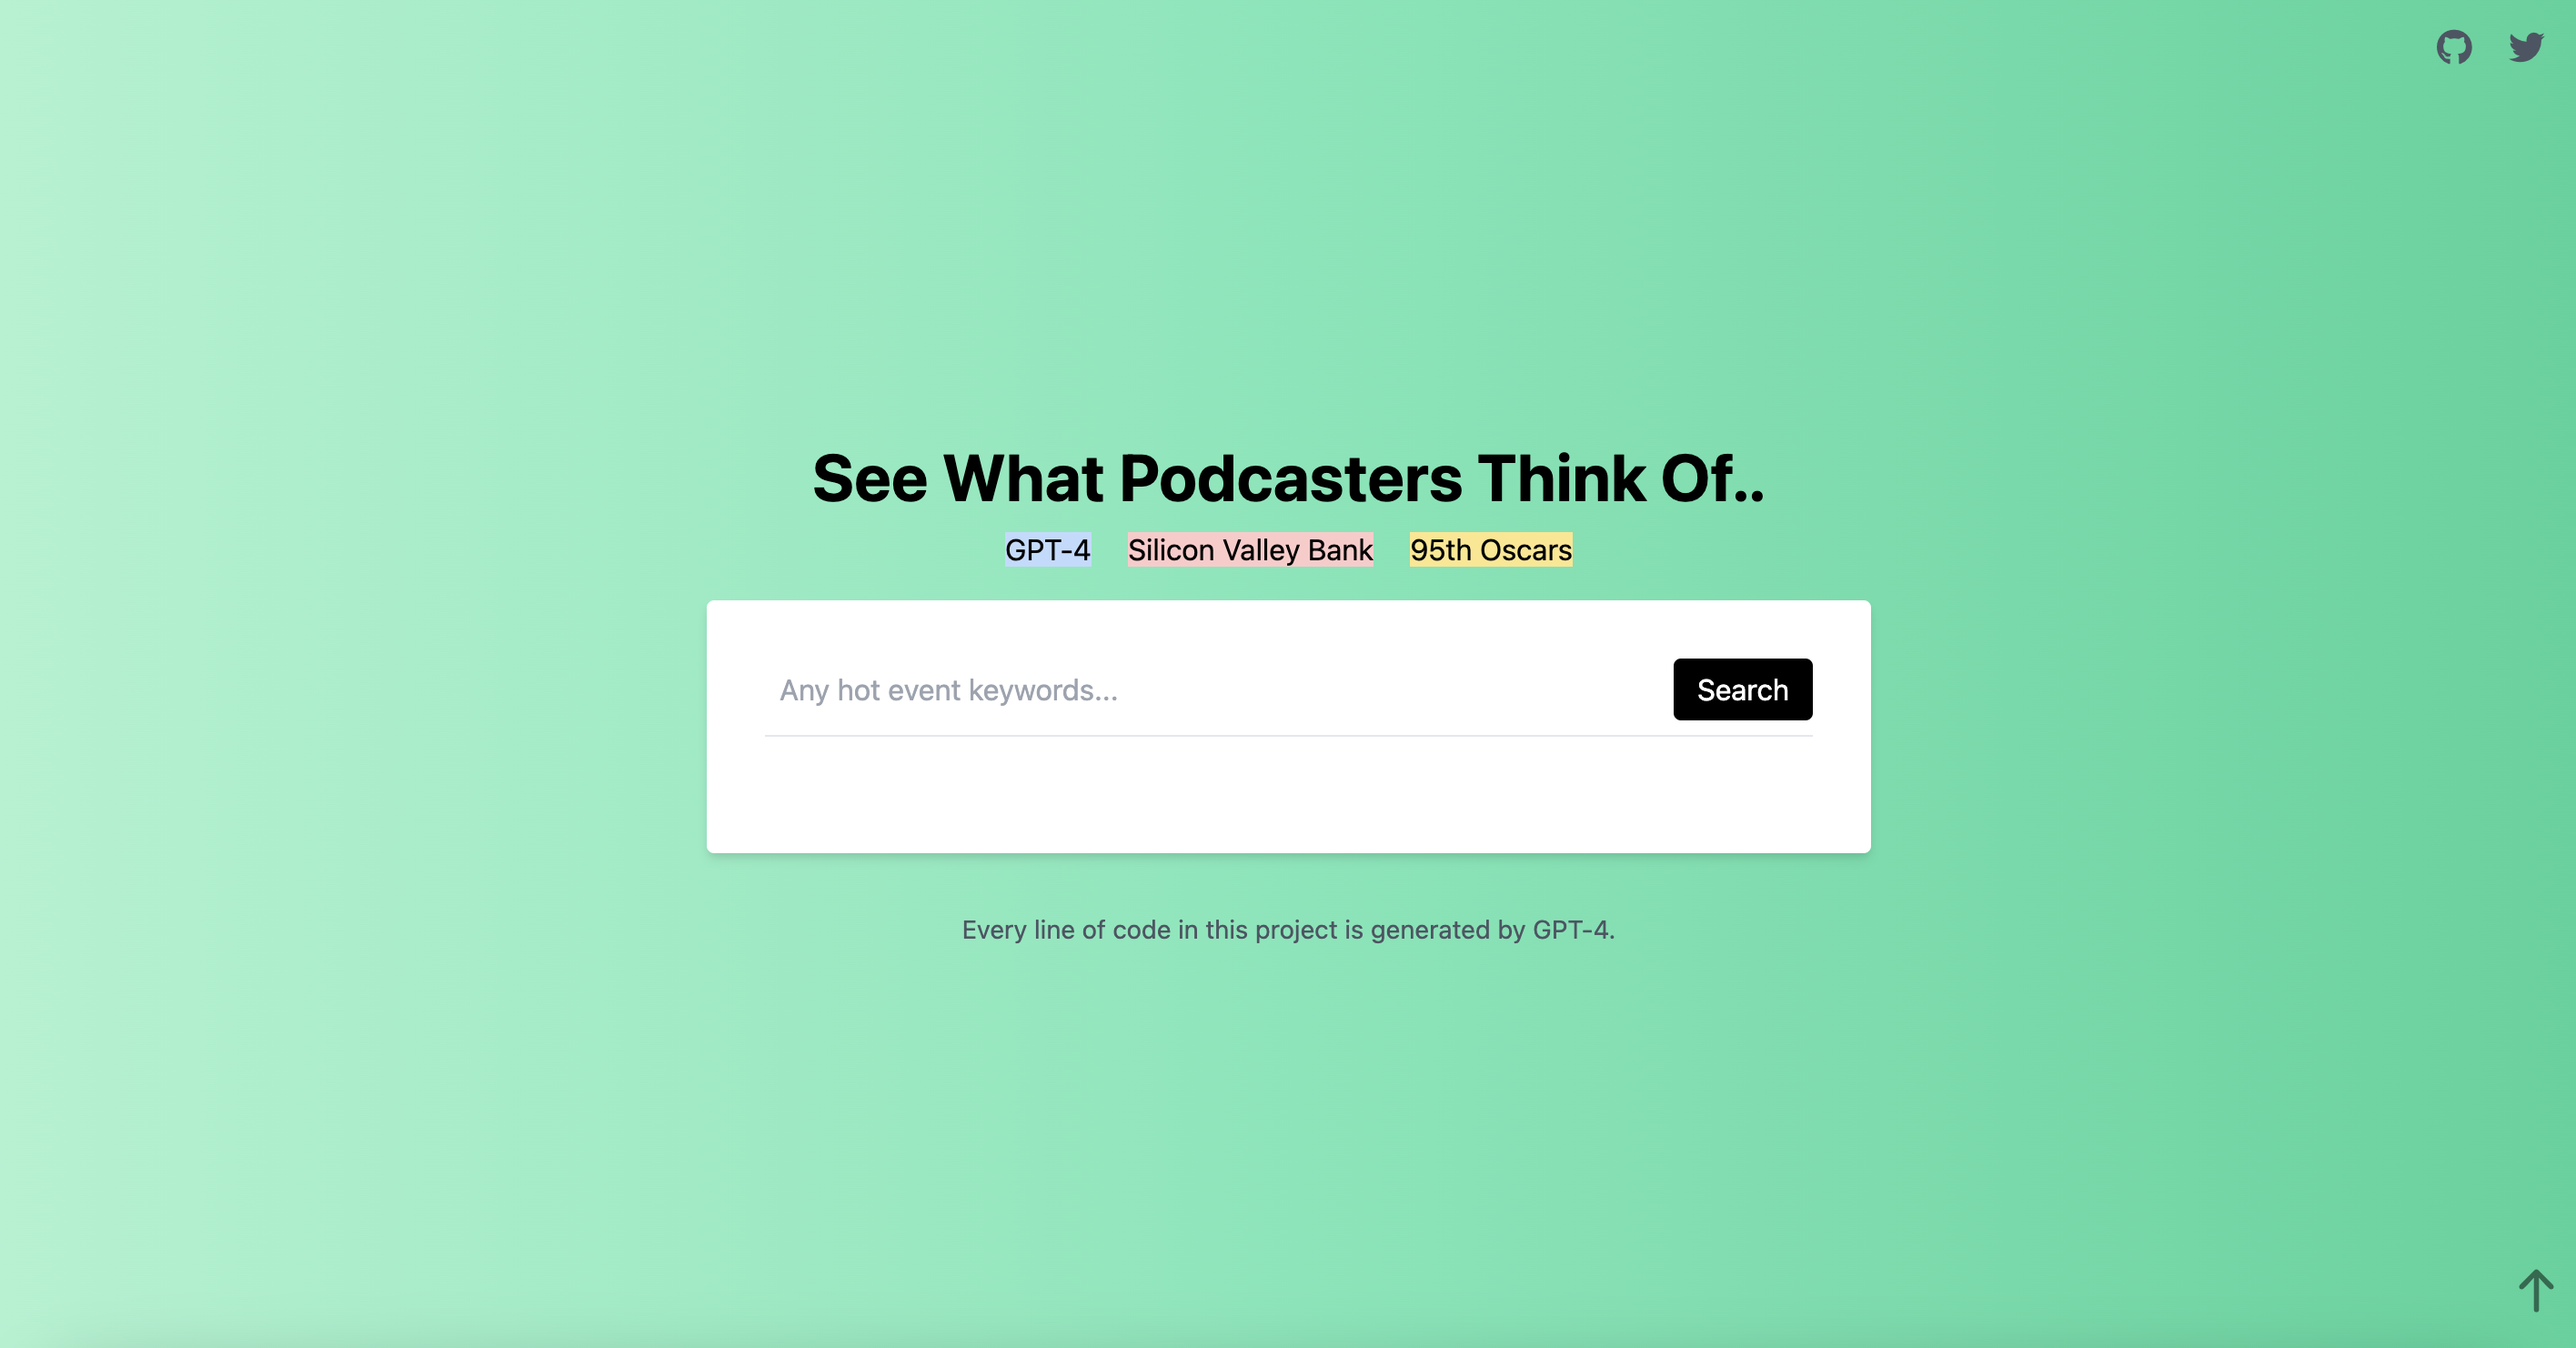
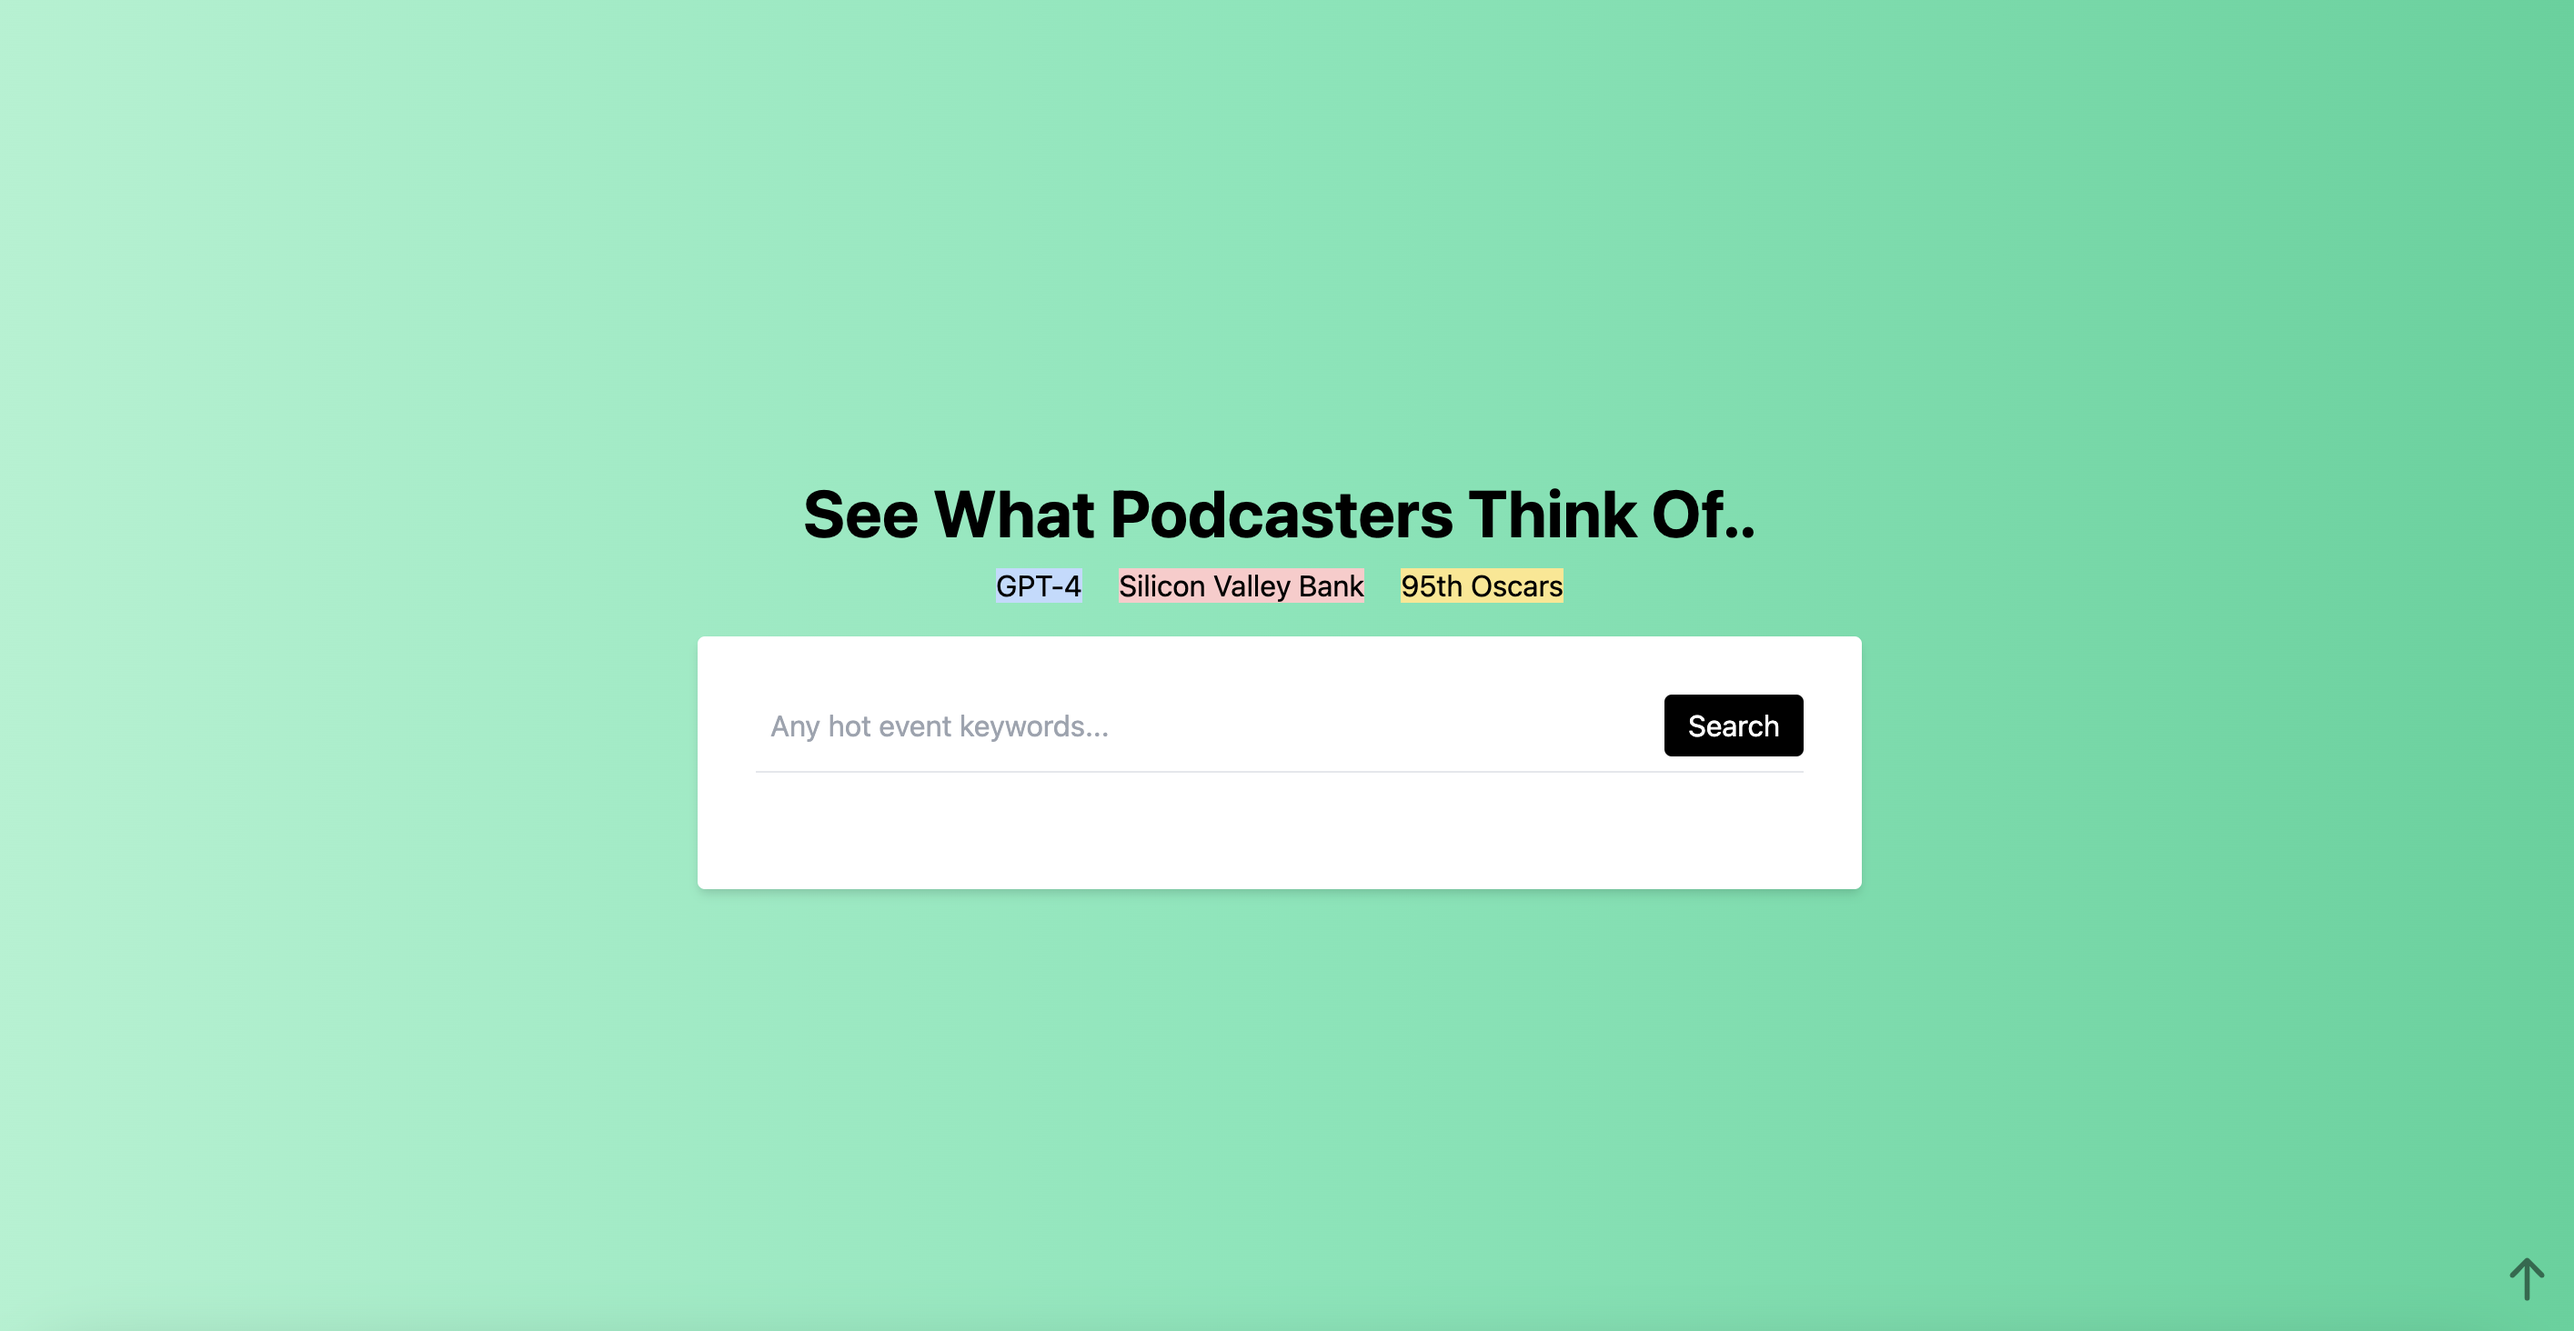
remove github & twitter

Changed region(s): [[0.2488, 0.3381, 0.7463, 0.707], [0.9329, 0.0307, 0.9951, 0.0615], [0.964, 0.9529, 0.9951, 0.9836]]

diff --git a/Web/templates/index.html b/Web/templates/index.html
@@ -13,15 +13,6 @@
 
 </head>
 <body class="bg-gradient-to-r from-green-200 via-green-300 to-green-400 min-h-screen flex items-center justify-center flex flex-col min-h-screen">
-    <!-- social icons container -->
-    <div class="fixed top-4 right-4">
-        <a href="https://github.com/mazzzystar/OpenMinds/" target="_blank" class="text-gray-600 hover:text-gray-800 mx-2">
-            <i class="fab fa-github fa-lg"></i>
-        </a>
-        <a href="https://twitter.com/immazzystar" target="_blank" class="text-gray-600 hover:text-gray-800 mx-2">
-            <i class="fab fa-twitter fa-lg"></i>
-        </a>
-    </div>
 
     <div class="container mx-auto px-4 max-w-2xl">
         <a href="/" class="text-4xl font-bold text-center mt-8 block">
@@ -66,8 +57,8 @@
     <button id="scrollToTop" class="fixed bottom-4 right-4 cursor-pointer opacity-50 hover:opacity-100 focus:outline-none" onclick="scrollToTop()">&uarr;</button>
 
     <!-- footer -->
-    <footer class="py-4 text-center">
-        <p class="text-sm text-gray-600">Every line of code in this project is generated by GPT-4.</p>
-    </footer>
+<!--    <footer class="py-4 text-center">-->
+<!--        <p class="text-sm text-gray-600">Every line of code in this project is generated by GPT-4.</p>-->
+<!--    </footer>-->
 </body>
 </html>
